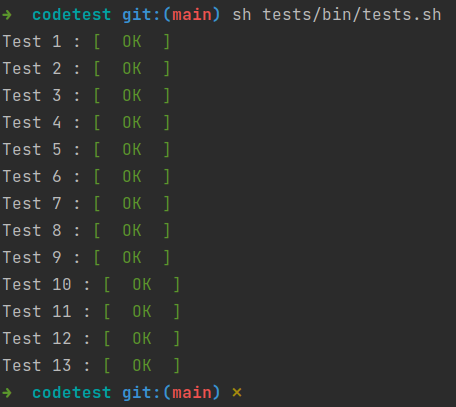
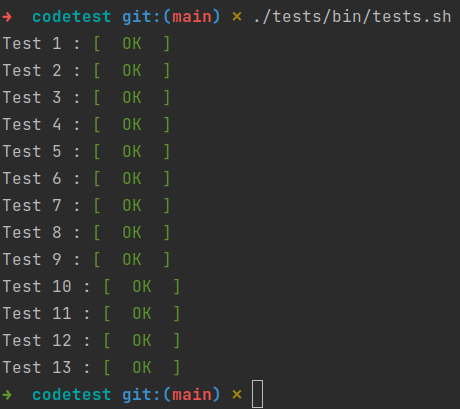
doc & deploy script improvements

diff --git a/src/Battlefield/AttackStrategy/Protocol/AbstractProtocol.php b/src/Battlefield/AttackStrategy/Protocol/AbstractProtocol.php
@@ -34,6 +34,7 @@ abstract class AbstractProtocol implements Protocol
      */
     protected function initialize(array $targets): void
     {
+        // TODO sobreescribir en caso de necesidad
     }
 
     /**

diff --git a/doc/new-protocols.md b/doc/new-protocols.md
@@ -1,24 +1,53 @@
 # Inclusión de nuevos protocolos
 
+## Requisitos
+
 Para la aplicación de protocolos se ha utilizado el patrón `StrategyPattern`,
 por lo que simplemente será necesario que el protocolo implemente la interfaz
 `Protocol`.
 
 Esta interfaz cuenta con los siguientes métodos:
 
-* **prioritizeTargets** - Recibe una lista de protocolos y devuelve aquellos elementos
-que cumplen con los criterios del protocolo.
+* **prioritizeTargets(Targets[]): Targets[]** - Recibe una lista de protocolos y devuelve aquellos
+elementos que cumplen con los criterios del protocolo.
 
 
-* **getIncompatibleProtocols** - Devuelve una colección con los nombres de clase de los
-protocolos incompatibles con el actual, como podrían ser `closest-enemies` y
+* **getIncompatibleProtocols(): string[]** - Devuelve una colección con los nombres de clase 
+de los protocolos incompatibles con el actual, como podrían ser `closest-enemies` y
 `furthest-enemies`, de manera que se pueda alertar al cliente en caso de que intente aplicar
 protocolos incompatibles.
 
 
-* **isDependent** - Recibe un protocolo e informa si el protocolo actual es dependiente de 
-él o no. Se utiliza para aplicar los protocolos por un orden de prioridades, como se explica
-en el [modelo de clases](./entities.md).
+* **isDependent(Protocol): bool** - Recibe un protocolo e informa si el protocolo actual es
+dependiente de él o no. Se utiliza para aplicar los protocolos por un orden de prioridades,
+como se explica en el [modelo de clases](./entities.md).
+
+## Facilidades
+
+Una estrategia que puede resultar útil en el momento de añadir un nuevo protocolo es heredar
+de la clase `AbstractProtocol`.
+
+Esta clase cumple con la interfaz `Protocol`, y proporciona una implementación común a todos
+los protocolos existentes, de forma que en cada protocolo únicamente se necesitará añadir aquel
+código que difiera de los demás.
+
+Así, los métodos de los nuevos protocolos que hereden de esta clase deberían implementar son los
+siguientes:
+
+* **initialize(Targets[]): void** - Permite inicializar los atributos de clase particulares de
+cada protocolo haciendo uso de la colección de objetivos. Un ejemplo de su uso son los protocolos
+`closest-enemy` y `furthest-enemy`, los cuales almacenan en un atributo de clase la distancia
+menor y mayor respectivamente, para luego hacer uso de ella.
+
+
+* **meetRequirements(Target): bool** - Devuelve un booleano indicando si el objetivo cumple
+con los requisitos del protocolo.
+
+
+* **getDependencies(): string[]** - Devuelve una colección con el nombre de clase de aquellos
+* protocolos de los que depende.
+
+## Uso
 
 Una vez implementados correctamente los métodos de la interfaz, sólo hará falta
 añadirlo a la colección de servicios que recibe la clase `ProtocolFactory`, encargada

diff --git a/README.md b/README.md
@@ -19,34 +19,31 @@ Para hacer uso del módulo será necesario ejecutar el siguiente comando:
 sh bin/deploy
 ```
 
-Se ejecutarán los test unitarios del propio módulo. Una vez terminados,
-será el turno de las librerías de detección de errores y corrección de
-estilos. Finalmente, arrancará el contenedor con el servidor web que
-atenderá las peticiones que han de llegar al módulo, en el siguiente
-dominio:
+Este comando arrancará el contenedor con el servidor web que atenderá
+las peticiones que han de llegar al módulo, en el siguiente dominio:
 
 ```
 http://localhost:8888
 ```
 
+Una vez arrancado, el script continuará ejecutando los test unitarios
+del propio módulo. Posteriormente, será el turno de las librerías de
+detección de errores y corrección de estilos. Finalmente,se pasarán
+los tests proporcionados por la Nueva República.
+
 ### Comprobando los test de la Nueva República
 
-Una vez arrancado el sistema, los test proporcionados por la Nueva República se
-han ubicado en la carpeta `tests` del proyecto, y para su ejecución será
-necesario el siguiente comando:
+Los test proporcionados por la Nueva República se han ubicado en la
+carpeta `tests` del proyecto, y para su ejecución será necesario el
+siguiente comando:
 
 ```
-sh tests/bin/tests.sh
+./tests/bin/tests.sh
 ```
 
 El resultado debería ser algo similar a lo siguiente:
 
 ![Resultado de la ejecución de los tests de la Nueva República](./doc/images/test_run.png)
-
-**IMPORTANTE** - He tenido que modificar el script para cambiar el `==` que comprueba
-que el resultado obtenido es igual que el esperado, por simplemente `=`. Entiendo que
-es una peculiaridad del bash de Ubuntu, y si se ejecutara localmente en otro sistema
-operativo, quizás sea necesario restablecer el script.
 
 ## Documentación
 

diff --git a/doc/filesystem.md b/doc/filesystem.md
@@ -2,6 +2,10 @@
 
 ## Evaluables
 
+En los siguientes directorios se encuentra la programación del propio módulo
+en sí, los cuales cual deberán ser inspeccionados para medir la calidad del producto
+entregado, y modificados en caso de necesitar ampliaciones.
+
 ### src
 
 Ficheros fuente con el código de la aplicación.
@@ -11,10 +15,17 @@ Ficheros fuente con el código de la aplicación.
 Test realizados durante el desarrollo de la aplicación, al margen de los
 proporcionados por la Nueva República.
 
+### doc
+
+Documentación.
+
 También se encuentra ubicado en el directorio `tests/bin` los proporcionados
 por la misma.
 
 ## No evaluables
+
+Los ficheros contenidos en la siguiente lista son poco relevantes o pertenecientes
+en su mayoría a código de terceros.
 
 ### bin
 
@@ -24,10 +35,6 @@ Ejecutables. El más relevante es el fichero `deploy`, encargado de lanzar la ap
 
 Ficheros de configuración. El más relevante es el fichero `services.yaml`, en el que se
 deberán añadir los nuevos protocolos a la factoría de creación.
-
-### doc
-
-Documentación.
 
 ### docker
 

diff --git a/doc/libraries.md b/doc/libraries.md
@@ -9,6 +9,10 @@ Gestión de dependencias.
 Framework principal, utilizado para la gestión de peticiones web y para dotar
 de una estructura inicial al conjunto de la aplicación.
 
+### PhpUnit
+
+Framework utilizado en el desarrollo de tests durante la fase de implementación.
+
 ### PhpStan
 
 Herramienta automatizada de análisis de código para la detección de errores y
